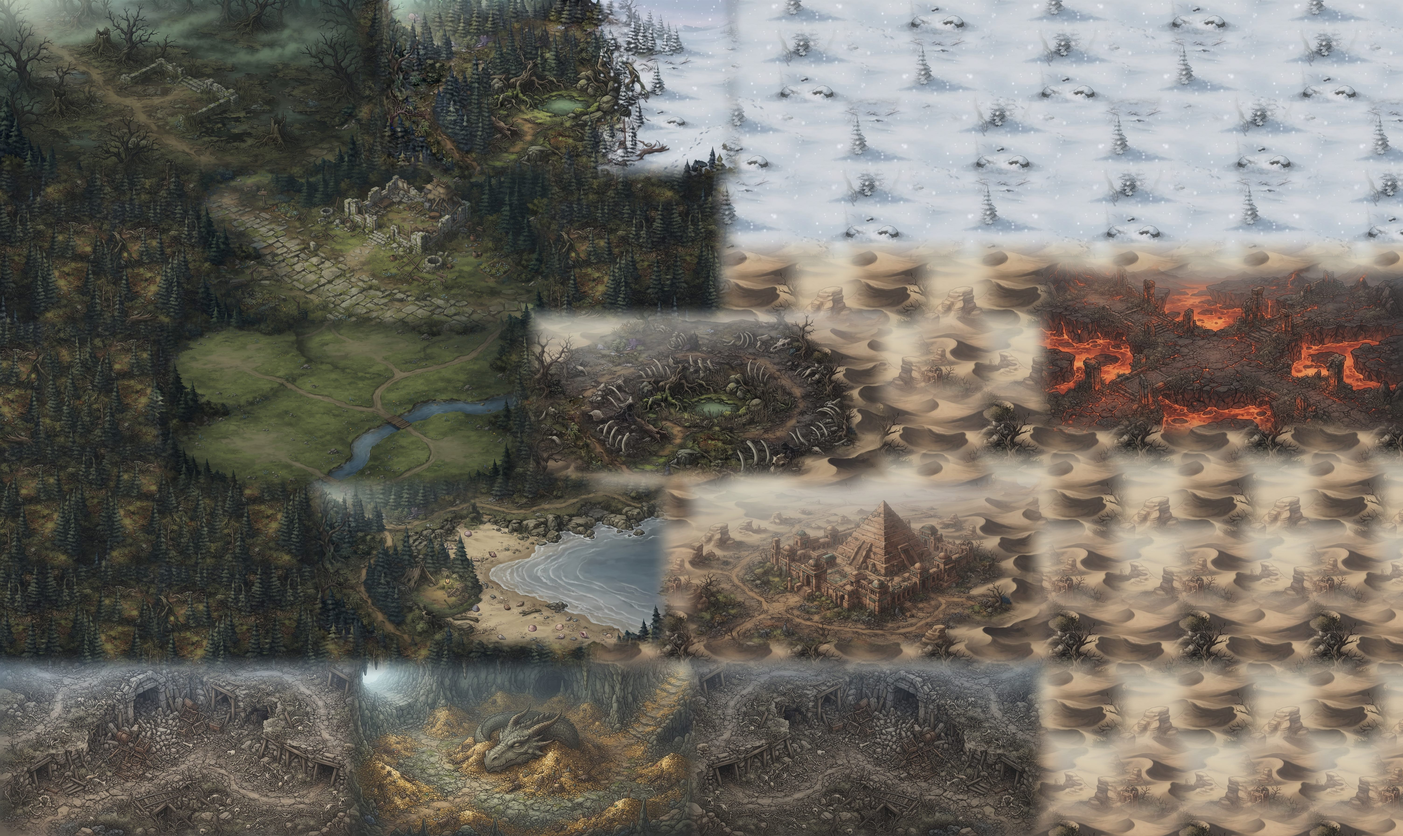
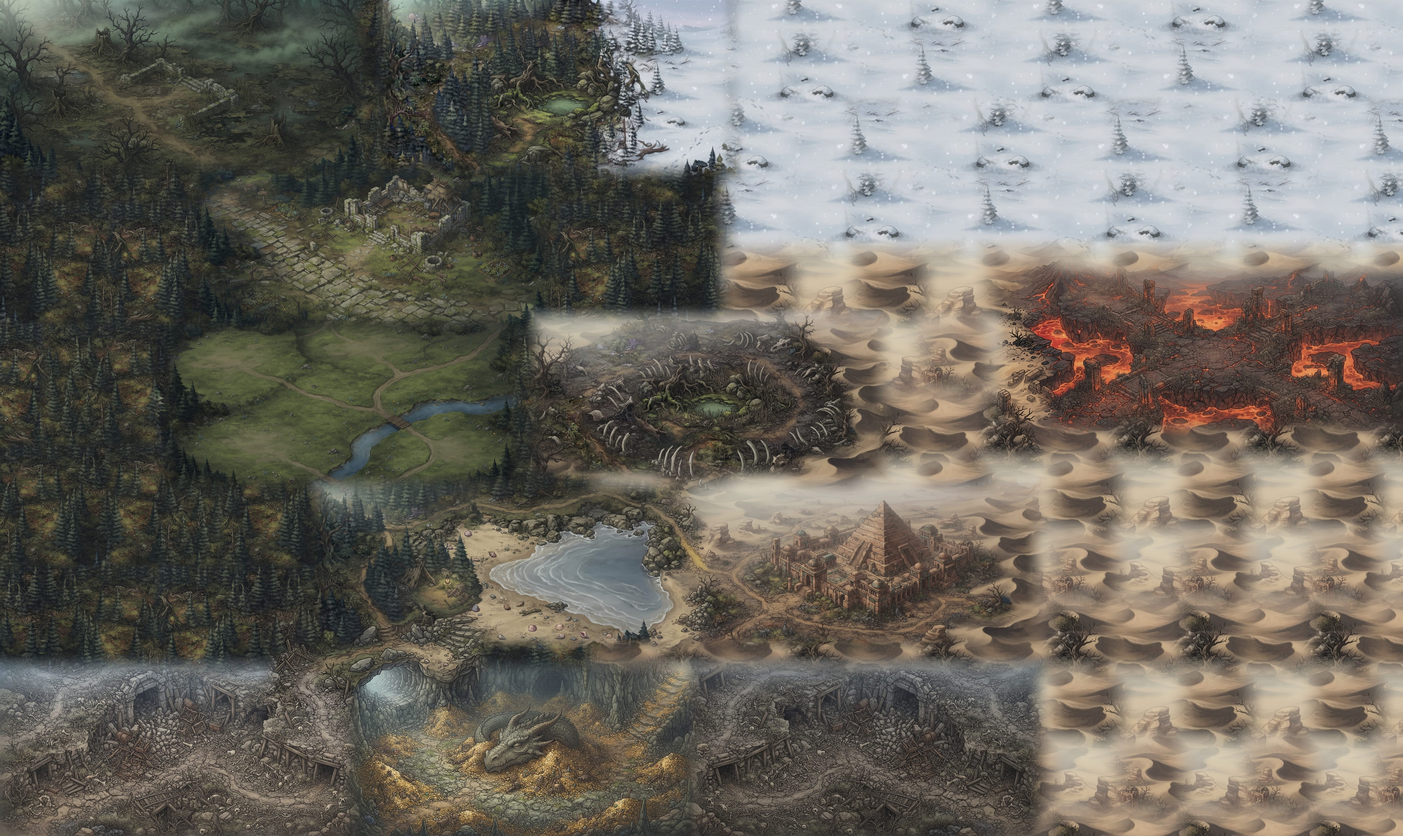
黑暗大陸：大地圖 3 條接縫 AI 補畫（海灘↔金字塔、海灘↔礦坑龍窟、沙丘↔熔火煉獄），補 3 個擋格，20261019m

Changed region(s): [[0.4375, 0.5, 0.5312, 0.7812], [0.1875, 0.7188, 0.3438, 0.8438], [0.6875, 0.3125, 0.7812, 0.5312]]

diff --git a/屠龍勇者/index.html b/屠龍勇者/index.html
@@ -877,44 +877,44 @@
 <div id="toast-layer"></div>
 
 <!-- 載入順序：設定 → 資料 → 玩家 → 系統 → 介面 → 進入點（換版時所有 ?v= 一起改，見 ARCHITECTURE.md） -->
-<script src="data/config.js?v=20261019l"></script>
-<script src="data/classes.js?v=20261019l"></script>
-<script src="data/skills.js?v=20261019l"></script>
-<script src="data/items.js?v=20261019l"></script>
-<script src="data/spellbook.js?v=20261019l"></script>
-<script src="data/monsters.js?v=20261019l"></script>
-<script src="data/zones.js?v=20261019l"></script>
-<script src="data/quests.js?v=20261019l"></script>
-<script src="data/resonance.js?v=20261019l"></script>
-<script src="data/player.js?v=20261019l"></script>
-<script src="data/enchant.js?v=20261019l"></script>
-<script src="data/affix.js?v=20261019l"></script>
-<script src="data/craft.js?v=20261019l"></script>
-<script src="data/maps.js?v=20261019l"></script>
-<script src="data/combat.js?v=20261019l"></script>
-<script src="data/town.js?v=20261019l"></script>
-<script src="data/save.js?v=20261019l"></script>
-<script src="data/cloud.js?v=20261019l"></script>
-<script src="data/offline.js?v=20261019l"></script>
-<script src="data/ui.js?v=20261019l"></script>
-<script src="data/sfx.js?v=20261019l"></script>
-<script src="data/bgm.js?v=20261019l"></script>
-<script src="data/ui-create.js?v=20261019l"></script>
-<script src="data/ui-panels.js?v=20261019l"></script>
-<script src="data/codex.js?v=20261019l"></script>
-<script src="data/raid.js?v=20261019l"></script>
-<script src="data/clan.js?v=20261019l"></script>
-<script src="data/chat.js?v=20261019l"></script>
-<script src="data/rank.js?v=20261019l"></script>
-<script src="data/wb.js?v=20261019l"></script>
-<script src="data/market.js?v=20261019l"></script>
-<script src="data/vault.js?v=20261019l"></script>
-<script src="data/presence.js?v=20261019l"></script>
-<script src="data/ui-frame.js?v=20261019l"></script>
-<script src="data/icons.js?v=20261019l"></script>
-<script src="data/hotbar.js?v=20261019l"></script>
-<script src="data/ui-scene.js?v=20261019l"></script>
-<script src="data/pwa.js?v=20261019l"></script>
-<script src="data/main.js?v=20261019l"></script>
+<script src="data/config.js?v=20261019m"></script>
+<script src="data/classes.js?v=20261019m"></script>
+<script src="data/skills.js?v=20261019m"></script>
+<script src="data/items.js?v=20261019m"></script>
+<script src="data/spellbook.js?v=20261019m"></script>
+<script src="data/monsters.js?v=20261019m"></script>
+<script src="data/zones.js?v=20261019m"></script>
+<script src="data/quests.js?v=20261019m"></script>
+<script src="data/resonance.js?v=20261019m"></script>
+<script src="data/player.js?v=20261019m"></script>
+<script src="data/enchant.js?v=20261019m"></script>
+<script src="data/affix.js?v=20261019m"></script>
+<script src="data/craft.js?v=20261019m"></script>
+<script src="data/maps.js?v=20261019m"></script>
+<script src="data/combat.js?v=20261019m"></script>
+<script src="data/town.js?v=20261019m"></script>
+<script src="data/save.js?v=20261019m"></script>
+<script src="data/cloud.js?v=20261019m"></script>
+<script src="data/offline.js?v=20261019m"></script>
+<script src="data/ui.js?v=20261019m"></script>
+<script src="data/sfx.js?v=20261019m"></script>
+<script src="data/bgm.js?v=20261019m"></script>
+<script src="data/ui-create.js?v=20261019m"></script>
+<script src="data/ui-panels.js?v=20261019m"></script>
+<script src="data/codex.js?v=20261019m"></script>
+<script src="data/raid.js?v=20261019m"></script>
+<script src="data/clan.js?v=20261019m"></script>
+<script src="data/chat.js?v=20261019m"></script>
+<script src="data/rank.js?v=20261019m"></script>
+<script src="data/wb.js?v=20261019m"></script>
+<script src="data/market.js?v=20261019m"></script>
+<script src="data/vault.js?v=20261019m"></script>
+<script src="data/presence.js?v=20261019m"></script>
+<script src="data/ui-frame.js?v=20261019m"></script>
+<script src="data/icons.js?v=20261019m"></script>
+<script src="data/hotbar.js?v=20261019m"></script>
+<script src="data/ui-scene.js?v=20261019m"></script>
+<script src="data/pwa.js?v=20261019m"></script>
+<script src="data/main.js?v=20261019m"></script>
 </body>
 </html>

diff --git a/屠龍勇者/data/ui-scene.js b/屠龍勇者/data/ui-scene.js
@@ -101,7 +101,7 @@ const SCENE_BGS = {
     // 2026-10-18 使用者改成「5 個真的地圖合併」：海灘＝低語海岸、草原與古泉＝迷霧古林、廢村＝沉船海灣、沼澤＝紫霧遺跡；
     // 走進別區就自動換成那個地圖（怪物、等級、掉落跟著換，sceneEnterZone），這幾個地圖共用同一個畫面（sceneKey 'zone:wild'）
     wild: {
-        src: 'images/maps/wild.jpg?v=4', mini: 'images/maps/wild-mini.jpg?v=4', occ: 'images/maps/wild-occ.png', w: 188,   // 2026-10-19 往東加熔火煉獄（第 57 節），141 → 188 欄   // ?v=：圖改過就加 1（SW 會先給快取的舊圖）
+        src: 'images/maps/wild.jpg?v=5', mini: 'images/maps/wild-mini.jpg?v=5', occ: 'images/maps/wild-occ.png', w: 188,   // 2026-10-19 往東加熔火煉獄（第 57 節），141 → 188 欄   // ?v=：圖改過就加 1（SW 會先給快取的舊圖）
         h: 112, start: [63, 78], big: true,   // 2026-10-18 往南加一排（第 49 節）：腐朽礦坑・上層／沉眠龍窟／腐朽礦坑・深層，88 → 112 列
         // 野外 NPC（第 55 節）：站的格子不能走；點名牌對話（act 呼叫 ui-panels.js 的 openKeeper）；to＝要送去的地圖；front＝「飛到 NPC 面前」的落點
         fieldNpcs: [
@@ -156,6 +156,7 @@ const SCENE_BGS = {
             [64, 94, 78, 103],                                                                         // 龍窟：沉睡的龍
             [111, 90, 126, 99], [127, 93, 132, 98], [134, 98, 140, 103], [94, 95, 107, 104], [118, 108, 121, 111],   // 礦坑深層（上層左右翻轉）
             [145, 49, 147, 52], [150, 51, 152, 54], [156, 43, 157, 46], [150, 38, 152, 41], [167, 39, 170, 43], [173, 51, 175, 54], [176, 51, 181, 52],   // 熔火煉獄：石柱、右下的熔岩溪
+            [92, 80, 95, 84], [49, 84, 50, 85], [138, 43, 140, 46],                                  // 接縫補畫後新畫的碎石堆、路上大石、流進沙丘的熔岩（第 58 節）
         ],
     },
 };

diff --git a/屠龍勇者/data/config.js b/屠龍勇者/data/config.js
@@ -1,6 +1,6 @@
 // 屠龍勇者：全域設定、常數、共用小工具（最先載入，不依賴其他檔案）
 const GAME_TITLE = '黑暗大陸';   // 遊戲名稱（2026-10-12 由「屠龍勇者」改名；資料夾與網址不變）
-const GAME_VERSION = '20261019l';
+const GAME_VERSION = '20261019m';
 
 // 與凡塵修仙傳同網域，localStorage 共用，key 一定要有 dragonSlayer_ 前綴
 const SAVE_KEY = 'dragonSlayer_save_v2';   // 欄位 0；其他欄位是 SAVE_KEY + '_s' + 編號（save.js slotKey）

diff --git a/屠龍勇者/ARCHITECTURE.md b/屠龍勇者/ARCHITECTURE.md
@@ -69,7 +69,7 @@
 
 ## 3. 開發規則
 
-- **版本號**：改任何 JS 都要把 `index.html` 全部 `?v=` 與 `config.js` 的 `GAME_VERSION` 一起換新（目前 `20261019l`）。
+- **版本號**：改任何 JS 都要把 `index.html` 全部 `?v=` 與 `config.js` 的 `GAME_VERSION` 一起換新（目前 `20261019m`）。
 - **合併衝突**：合併後一定要搜尋 `<<<<<<<`。2026-10-09 曾把衝突標記留在 `index.html`／`config.js`／`ui-scene.js`，
   整個遊戲載不起來（看起來像「存檔壞掉」，其實存檔還在），`20261009u` 修復時採用較新的 `20261009t` 那一邊。
   SW 依版本號快取 JS，**沒換版本號，已安裝 App 的玩家會一直跑舊程式**。
@@ -1717,7 +1717,7 @@ python3 tools/cut-sprites.py tools/sprite-src/mage-walk.json --preview 預覽.pn
 - 驗證：永夜王都傳送到熔火煉獄 → 大地圖、出生在符文廣場、怪是火之精靈／熔岩高崙／火蜥蜴；往西走到 140,53 換成焦骨峽谷；Console 無錯誤。
 - 大地圖現在包含 11 個地圖（第 49 節的 10 個＋熔火煉獄；熔火煉獄原本的地監格子畫面不再用）。
 
-## 58. 大地圖接縫 AI 補畫（2026-10-19，工具階段；`tools/bigmap/seams/`、`build-map.ps1` 的 `Patch`）
+## 58. 大地圖接縫 AI 補畫（2026-10-19，版本 `20261019m`；`tools/bigmap/seams/`、`build-map.ps1` 的 `Patch`）
 
 - 使用者嫌地圖銜接粗糙（各張 AI 圖直接貼上、邊緣霧狀淡入、畫風不同），選方案 D「AI 補畫接縫」（沒選 E 改磁磚地圖：要重做地圖系統與整套素材）。
 - `seams/patches.json`：每條接縫一筆 `{ id, x, y, orient: 'v'|'h', at, band, note }`，`x,y`＝1024×1024 方塊在大地圖的左上角（像素，1 格 32px），
@@ -1726,5 +1726,11 @@ python3 tools/cut-sprites.py tools/sprite-src/mage-walk.json --preview 預覽.pn
   輸出 `seams/todo/<id>.png`（接縫塗洋紅色，給生圖 AI）與 `<id>-orig.png`（原樣）。`base.jpg`、`todo/` 在 `.gitignore`。
 - 使用者把 AI 補好的圖放進 `seams/fixed/<id>.png|jpg|webp`（尺寸不拘，會縮成 1024），重跑 `build-map.ps1`：拼完先存 `base.jpg`，再把每張 fixed 用 `[BigMap]::Patch` 貼回——
   補畫區（band＋24px）完全蓋上，往外 140px 平滑淡出，方塊沿接縫的兩端 110px 也淡出，AI 圖顏色略偏也不會出現硬邊。
-- 之後要做：補好的圖貼回後重跑 `build-occ.ps1`（遮擋深度圖）、用 `check-mask.ps1` 確認可走範圍（AI 可能把路畫成石頭）、`SCENE_BGS.wild.src`／`mini` 的 `?v=` 加 1 並換版本號。
-  其他接縫照效果再加進 `patches.json`。
+- 檢查工具：`seam-check.ps1`＝AI 圖縮成 1024 後跟原圖比對補畫區以外的亮度差，找 −24～24px 的最佳位移（要是 0,0，否則貼回去會重影）；
+  `seam-compare.ps1`＝輸出 `todo/<id>-compare.jpg` 修改前（base.jpg）／後（wild.jpg）並排。
+- **第一批完成（`20261019m`）**：使用者用 AI 生圖補好 3 條（2048×2048，存成 `.jfif`，已改名 `fixed/<id>.jpg`），對齊檢查位移都是 0,0（差異 3.5～8.8）。
+  可走範圍照 AI 新畫的東西補 3 個擋格（`walk.json` 與 `SCENE_BGS.wild.block` 同步）：金字塔左下碎石堆 [92,80,95,84]、森林小路大石 [49,84,50,85]、流進沙丘的熔岩 [138,43,140,46]；
+  可走 9515 格全部能從草原出生點走到。重跑 `build-occ.ps1`，`wild.jpg`／`wild-mini.jpg` 網址改 `?v=5`。
+  驗證：本機（`.claude/launch.json` 新增 `dragon-alt` port 8791，8790 被別的對話佔用時用）黃沙王陵 93,75、焦骨峽谷 136,49 截圖，接縫自然、遊戲程式全部載入；預覽瀏覽器註冊 SW 失敗是環境限制（與本次無關）。
+- 流程（之後補其他接縫）：`patches.json` 加一筆 → `seam-cut.ps1 -Only id` → 使用者 AI 補畫存 `fixed/` → `seam-check.ps1` → `build-map.ps1` → `seam-compare.ps1` 看效果
+  → `check-mask.ps1` 疊可走範圍找 AI 新畫的障礙、補擋格 → `build-occ.ps1` → 圖 `?v=` 加 1、換版本號。

diff --git a/屠龍勇者/AI_HANDOFF.min.md b/屠龍勇者/AI_HANDOFF.min.md
@@ -35,7 +35,7 @@ enchant:<safe always;≥safe 0.5/(over+1.25),fail evaporate;max+15
 offline:login req,last char only,min(away,12h)×50%,sim 10min sample,supply-limited,no drops
 tower 永夜之塔1-100F boss each10F,6h respawn;4 dragons lairs 6h;quests 4ch Lv15/30/45/60
 ## BIGMAP(§45-57)
-images/maps/wild.jpg ?v=4 188×112 cells 32px;11 zones merged(低語海岸 迷霧古林 沉船海灣 紫霧遺跡 焦骨峽谷 永凍荒原 黃沙王陵 腐朽礦坑上層 沉眠龍窟 腐朽礦坑深層 熔火煉獄)=zones with bg:'wild';SCENE_BGS.wild{walk,block,regions[rect,start],occ,fieldNpcs};walk.json master→copy into ui-scene.js;wild-occ.png depth(R=row+1);rebuild map→bump img ?v;regions order matters(first rect match);auto gates;hunt restricted to current zone;keepers:永夜之塔@紫霧遺跡(5,6)、暮光法師塔@深層(132,98)→openKeeper(to)|tower uses images/maps/tower.jpg 40×20 separate scene|known bug:低語海岸 start 63,78 inside block|§58 seam repaint WIP:tools/bigmap/seams/patches.json→seam-cut.ps1→todo/<id>.png(magenta band)→user AI inpaint→fixed/<id>.*→build-map.ps1 pastes(Patch)→then build-occ,check walk,img ?v+1,ver bump
+images/maps/wild.jpg ?v=4 188×112 cells 32px;11 zones merged(低語海岸 迷霧古林 沉船海灣 紫霧遺跡 焦骨峽谷 永凍荒原 黃沙王陵 腐朽礦坑上層 沉眠龍窟 腐朽礦坑深層 熔火煉獄)=zones with bg:'wild';SCENE_BGS.wild{walk,block,regions[rect,start],occ,fieldNpcs};walk.json master→copy into ui-scene.js;wild-occ.png depth(R=row+1);rebuild map→bump img ?v;regions order matters(first rect match);auto gates;hunt restricted to current zone;keepers:永夜之塔@紫霧遺跡(5,6)、暮光法師塔@深層(132,98)→openKeeper(to)|tower uses images/maps/tower.jpg 40×20 separate scene|known bug:低語海岸 start 63,78 inside block|§58 seam repaint(3 done 20261019m,wild.jpg ?v=5):patches.json→seam-cut.ps1→todo/<id>.png(magenta)→user AI inpaint→fixed/<id>.*→seam-check(align 0,0)→build-map(Patch)→seam-compare→check-mask,add blocks(walk.json+SCENE_BGS.wild.block)→build-occ→img ?v+1,ver bump|alt test server dragon-alt:8791
 ## STATE
 live ver 20261019k(local main==origin after handoff-docs commit)|all 12 classes have sprites(walk/attack/cast/hit)+portraits;黑暗妖精 uses v1 darkelf-*.png(v2-v5 unused),portrait v4|presence OFF(PRES_ON=false,Realtime quota)|systems done:cloud saves,raid,chat,clan,rank,world boss,market,vault/diamonds,sfx/bgm,PWA,multi-char,hotbar,spellbooks,resonance,affix,maps T1-15,bigmap
 ## TODO(ask user before starting any)

diff --git a/屠龍勇者/HANDOFF.md b/屠龍勇者/HANDOFF.md
@@ -5,7 +5,8 @@
 
 ## 1. 現況
 
-- 線上版本 **`20261019l`**（負重 70% 以上不回魔，回血仍是超過 50% 不回；`config.js` 的 `WEIGHT_NO_MP_REGEN`、`combat.js` 的 `regenTick`），本機 `main` 與 GitHub 同步。
+- 本機版本 **`20261019m`**（大地圖 3 條接縫 AI 補畫，第 58 節；已 commit，待使用者 Push）。上一版 `20261019l`（負重 70% 以上不回魔）已上線。
+- 大地圖接縫：第一批 3 條補好；其他接縫照 `ARCHITECTURE.md` 第 58 節的流程，使用者想補哪條再加。
 - 網址：`https://k559610142-art.github.io/-username-.github.io-/屠龍勇者/`（repo `k559610142-art/-username-.github.io-`，GitHub Pages 發佈 `main`）。
 - 已完成的系統（詳見 `ARCHITECTURE.md` 各節）：12 職業（都有人物模型與立繪）＋職業故事／任務線、天堂原版經驗表、衝裝、暗黑式詞綴、
   製作通貨、異界地圖 T1～T15、共鳴裝備、天堂式魔法 1～10 級＋魔法書、快捷欄、離線收益、多角色欄位、
